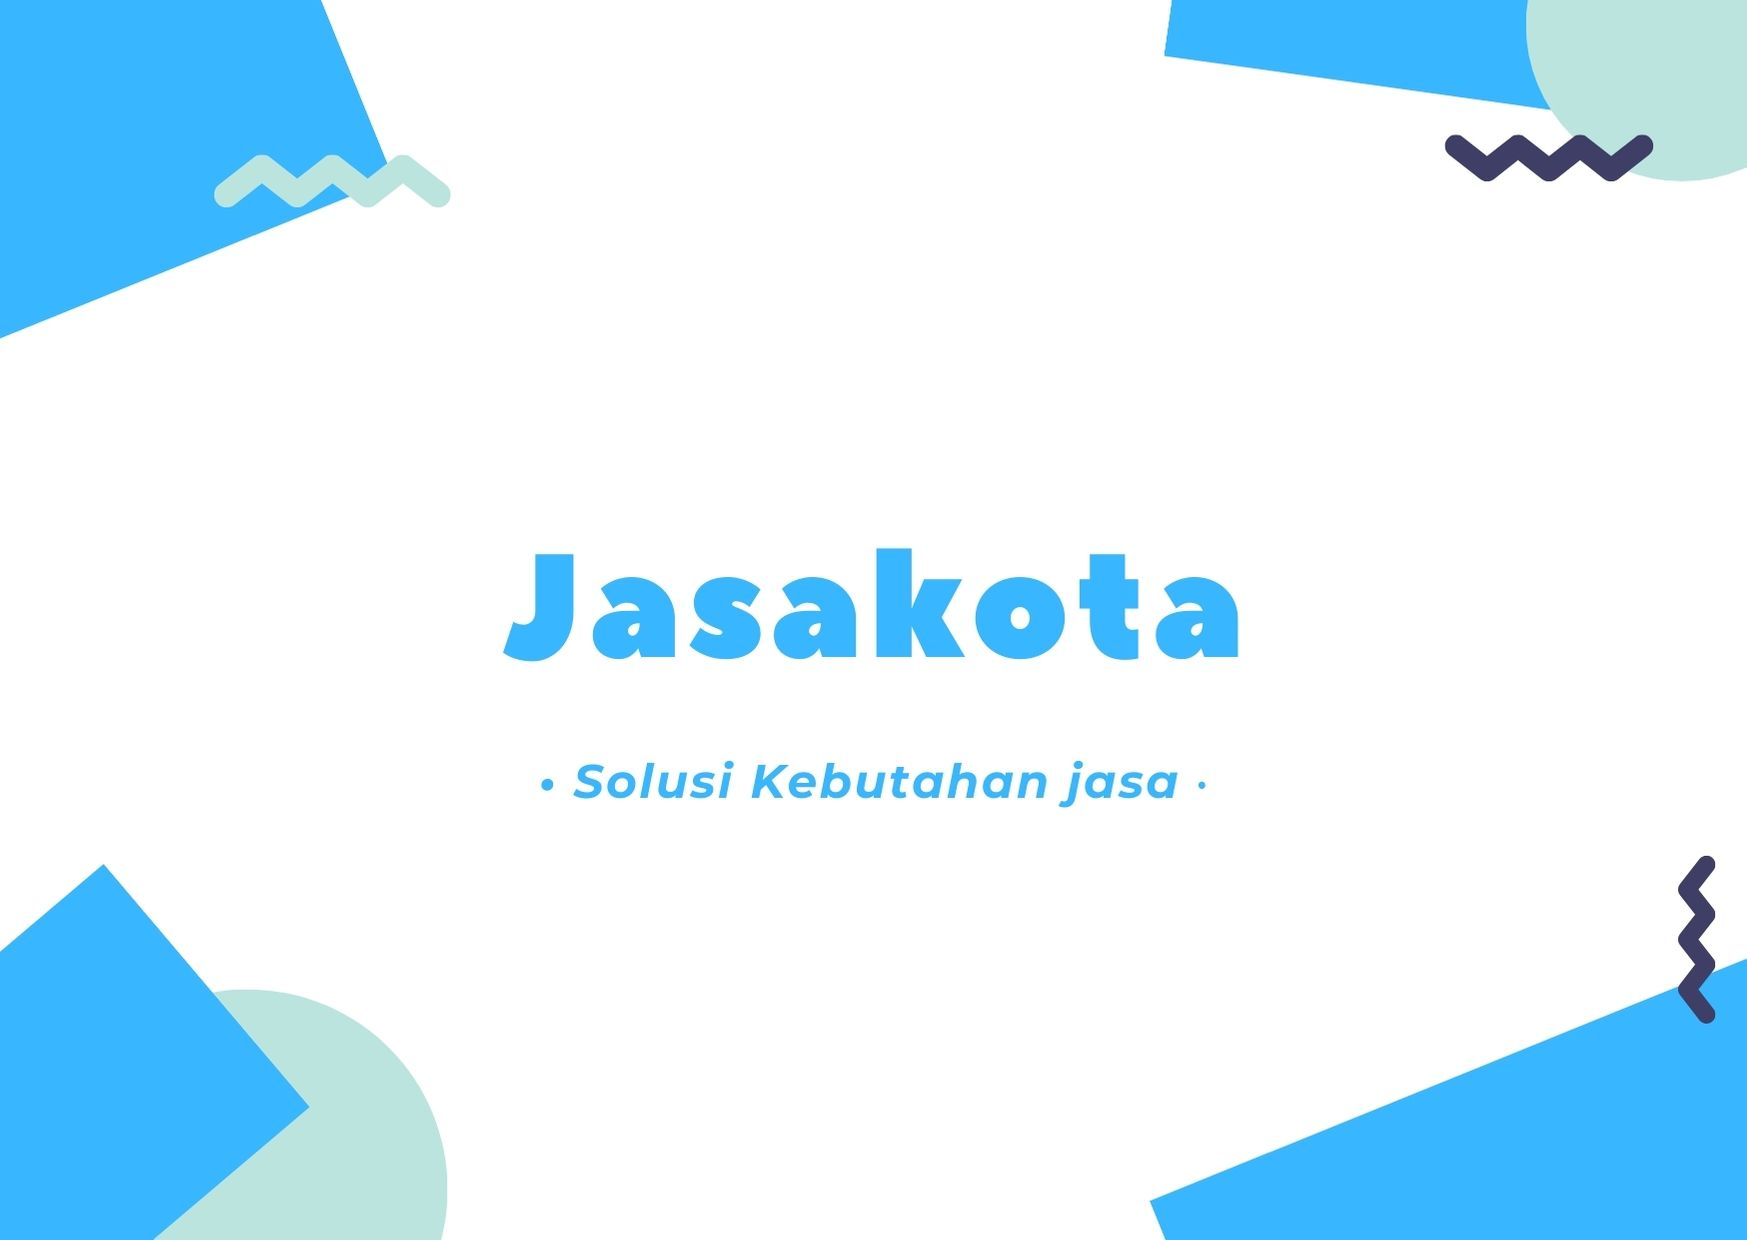
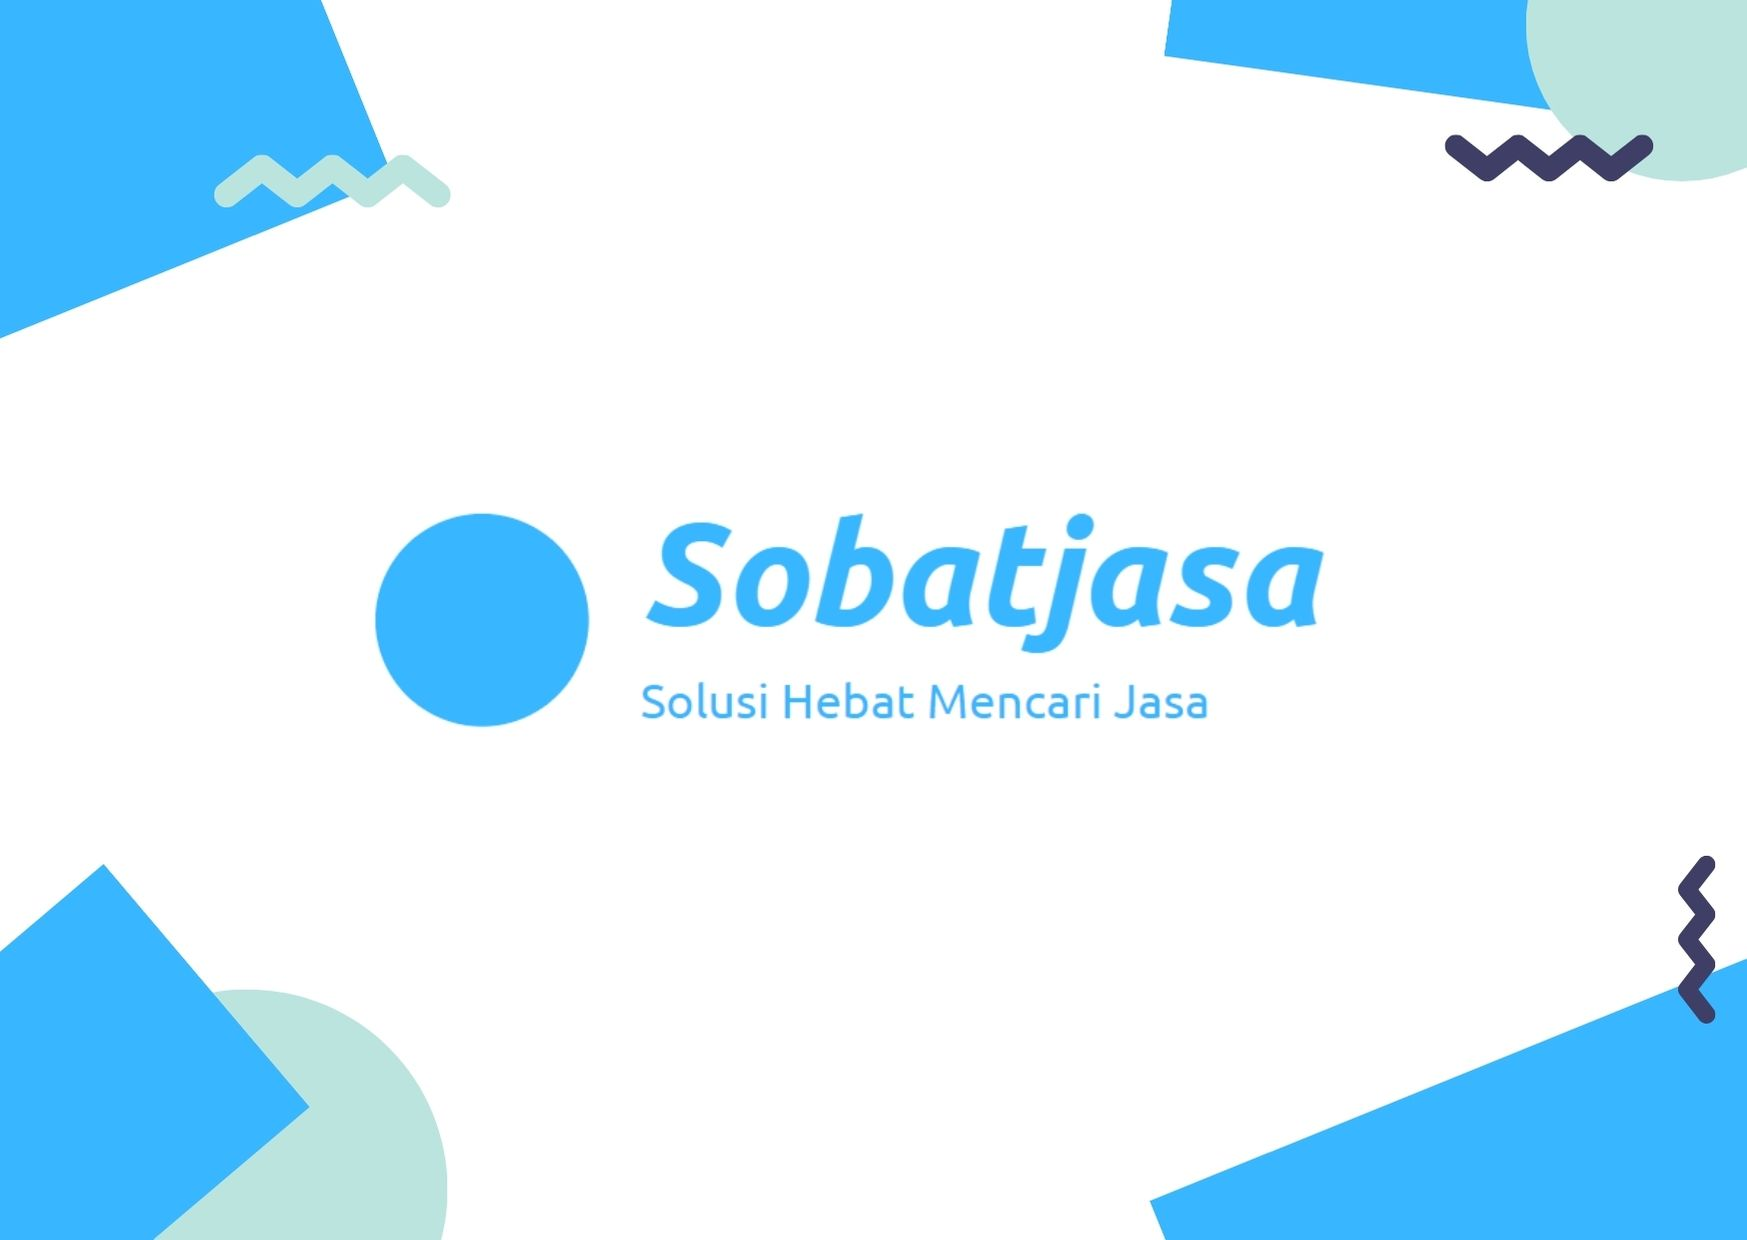
rebranding

Changed region(s): [[0.2164, 0.3984, 0.7728, 0.5823], [0.3091, 0.6129, 0.68, 0.6435]]

diff --git a/src/components/navbar.js b/src/components/navbar.js
@@ -1,11 +1,10 @@
 import React, {useState} from 'react';
 import ModalLogin from '../components/modal/login'
 import { Button, Modal } from 'react-bootstrap';
+import logo from '../assets/logo-sobatjasa.png'
 
 
 const Navbar = props => {
-
-  console.log(props)
 
     let data = props.data;
     const [show, setShow] = useState(false);
@@ -13,13 +12,13 @@ const Navbar = props => {
     const handleShow = () => setShow(true);
 
     return (
-        <div className="navbar-light bg-light">
+        <div className="navbar-light">
         <Modal size="lg" show={show} onHide={handleClose} size="md" aria-labelledby="contained-modal-title-vcenter" centered justify-content="center">
           <ModalLogin/>
         </Modal>
         <div className="row justify-content-center margin-0">
           <nav className="navbar navbar-expand-lg col-md-8">
-            <a className="navbar-brand" href="/">Jasakota</a>
+            <a className="navbar-brand" href="/"><img className="logo" src={logo}/></a>
             <button className="navbar-toggler" type="button" data-toggle="collapse" data-target="#navbarTogglerDemo02" aria-controls="navbarTogglerDemo02" aria-expanded="false" aria-label="Toggle navigation">
               <span className="navbar-toggler-icon"></span>
             </button>

diff --git a/src/components/pages/home.js b/src/components/pages/home.js
@@ -12,7 +12,6 @@ const Home = props => {
             <div className="row justify-content-center margin-0">
                 <div className="col-md-8" style={{height:400, width:'100%', margin:30}}>
                 <div style={{marginBottom:50}} className="banner">
-                    {/* <h1 className="text-header fade-in-right">Solusi Hebat Mencari Jasa</h1> */}
                     <img className="card d-md-block d-none" src={banner1} style={{width:'100%', hight:400}}></img>
                     <img className="card d-md-none d-block" src={banner1Mobile} style={{width:'100%'}}></img>
 

diff --git a/src/components/App.scss b/src/components/App.scss
@@ -145,6 +145,14 @@ a {
   margin-bottom: 20px;
 }
 
+.navbar-bg{
+  background-color: #39b6ff!important;
+}
+
+.logo{
+  width: 180px;
+}
+
 .banner{
   @media screen and (max-width:768px) {
     margin-bottom: 50px;
